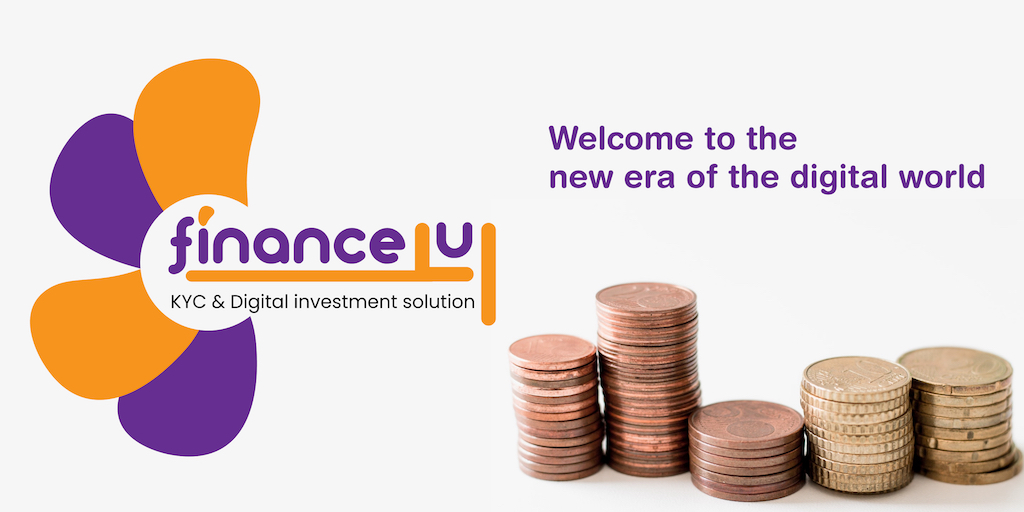
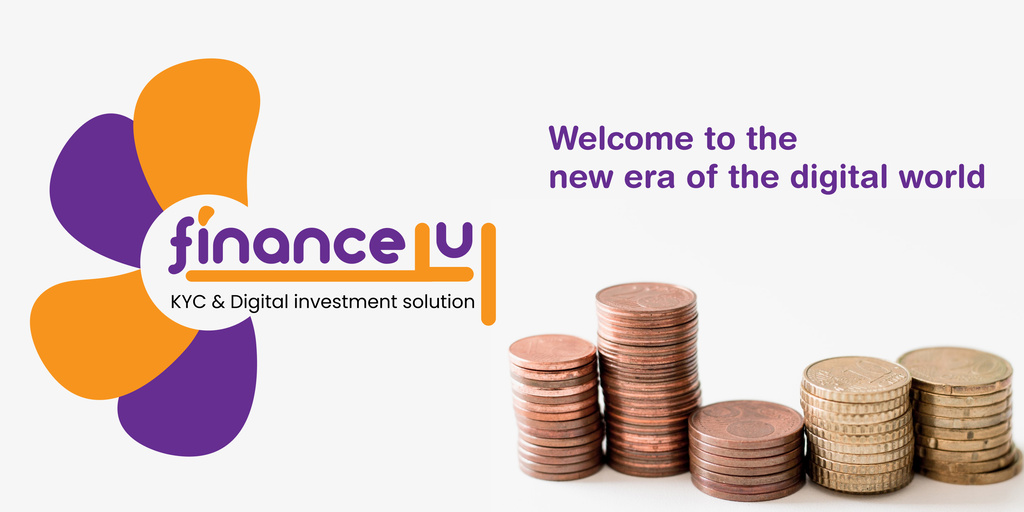
Added responsive images for parallax

diff --git a/css/responsive.css b/css/responsive.css
@@ -617,7 +617,31 @@
         margin-left: 5px;
     }
     #par .parallax-f4u {
-        background: url(../images/casestudy/financeu/f4u-cover-600x300.jpg)!important;
+        background: url(../images/casestudy/financeu/f4u-cover-640x320.jpg)!important;
+        background-repeat: no-repeat!important;
+        background-attachment: scroll!important;
+        background-size: 100%!important;
+        width: 100%!important;
+        background-position: center!important;
+    }
+    #par .parallax-hellomom {
+        background: url(../images/casestudy/hellomom/hellomom-cover-640x320.jpg)!important;
+        background-repeat: no-repeat!important;
+        background-attachment: scroll!important;
+        background-size: 100%!important;
+        width: 100%!important;
+        background-position: center!important;
+    }
+    #par .parallax-eatlocal {
+        background: url(../images/casestudy/eatlocal/eatlocal-cover-640x320.jpg)!important;
+        background-repeat: no-repeat!important;
+        background-attachment: scroll!important;
+        background-size: 100%!important;
+        width: 100%!important;
+        background-position: center!important;
+    }
+    #par .parallax-utap {
+        background: url(../images/casestudy/utap/utap-cover-640x320.jpg)!important;
         background-repeat: no-repeat!important;
         background-attachment: scroll!important;
         background-size: 100%!important;
@@ -715,6 +739,30 @@
     }
     #par .parallax-f4u {
         background: url(../images/casestudy/financeu/f4u-cover-800x400.jpg)!important;
+        background-repeat: no-repeat!important;
+        background-attachment: fixed!important;
+        background-size: 100%!important;
+        width: 100%!important;
+        background-position: center!important;
+    }
+    #par .parallax-hellomom {
+        background: url(../images/casestudy/hellomom/hellomom-cover-800x400.jpg)!important;
+        background-repeat: no-repeat!important;
+        background-attachment: fixed!important;
+        background-size: 100%!important;
+        width: 100%!important;
+        background-position: center!important;
+    }
+    #par .parallax-eatlocal {
+        background: url(../images/casestudy/eatlocal/eatlocal-cover-800x400.jpg)!important;
+        background-repeat: no-repeat!important;
+        background-attachment: fixed!important;
+        background-size: 100%!important;
+        width: 100%!important;
+        background-position: center!important;
+    }
+    #par .parallax-utap {
+        background: url(../images/casestudy/utap/utap-cover-800x400.jpg)!important;
         background-repeat: no-repeat!important;
         background-attachment: fixed!important;
         background-size: 100%!important;
@@ -1038,11 +1086,59 @@
         width: 100%!important;
         background-position: center!important;
     }
+    #par .parallax-hellomom {
+        background: url(../images/casestudy/hellomom/hellomom-cover-1024x512.jpg)!important;
+        background-repeat: no-repeat!important;
+        background-attachment: fixed!important;
+        background-size: 100%!important;
+        width: 100%!important;
+        background-position: center!important;
+    }
+    #par .parallax-eatlocal {
+        background: url(../images/casestudy/eatlocal/eatlocal-cover-1024x512.jpg)!important;
+        background-repeat: no-repeat!important;
+        background-attachment: fixed!important;
+        background-size: 100%!important;
+        width: 100%!important;
+        background-position: center!important;
+    }
+    #par .parallax-utap {
+        background: url(../images/casestudy/utap/utap-cover-1024x512.jpg)!important;
+        background-repeat: no-repeat!important;
+        background-attachment: fixed!important;
+        background-size: 100%!important;
+        width: 100%!important;
+        background-position: center!important;
+    }
 }
 
 @media only screen and (min-device-width: 768px) and (max-device-width: 1023px) {
     #par .parallax-f4u {
         background: url(../images/casestudy/financeu/f4u-cover-1024x512.jpg)!important;
+        background-repeat: no-repeat!important;
+        background-attachment: fixed!important;
+        background-size: 100%!important;
+        width: 100%!important;
+        background-position: center!important;
+    }
+    #par .parallax-hellomom {
+        background: url(../images/casestudy/hellomom/hellomom-cover-1024x512.jpg)!important;
+        background-repeat: no-repeat!important;
+        background-attachment: fixed!important;
+        background-size: 100%!important;
+        width: 100%!important;
+        background-position: center!important;
+    }
+    #par .parallax-eatlocal {
+        background: url(../images/casestudy/eatlocal/eatlocal-cover-1024x512.jpg)!important;
+        background-repeat: no-repeat!important;
+        background-attachment: fixed!important;
+        background-size: 100%!important;
+        width: 100%!important;
+        background-position: center!important;
+    }
+    #par .parallax-utap {
+        background: url(../images/casestudy/utap/utap-cover-1024x512.jpg)!important;
         background-repeat: no-repeat!important;
         background-attachment: fixed!important;
         background-size: 100%!important;
@@ -1100,6 +1196,30 @@
         width: 100%!important;
         background-position: center!important;
     }
+    #par .parallax-hellomom {
+        background: url(../images/casestudy/hellomom/hellomom-cover-1024x512.jpg)!important;
+        background-repeat: no-repeat!important;
+        background-attachment: fixed!important;
+        background-size: 100%!important;
+        width: 100%!important;
+        background-position: center!important;
+    }
+    #par .parallax-eatlocal {
+        background: url(../images/casestudy/eatlocal/eatlocal-cover-1024x512.jpg)!important;
+        background-repeat: no-repeat!important;
+        background-attachment: fixed!important;
+        background-size: 100%!important;
+        width: 100%!important;
+        background-position: center!important;
+    }
+    #par .parallax-utap {
+        background: url(../images/casestudy/utap/utap-cover-1024x512.jpg)!important;
+        background-repeat: no-repeat!important;
+        background-attachment: fixed!important;
+        background-size: 100%!important;
+        width: 100%!important;
+        background-position: center!important;
+    }
 }
 
 @media screen and (min-width: 1400px) {
@@ -1129,7 +1249,31 @@
         position: relative;
     }
     #par .parallax-f4u {
-        background: url(../images/casestudy/financeu/f4u-cover-1400x700.jpg)!important;
+        background: url(../images/casestudy/financeu/f4u-cover-1440x720.jpg)!important;
+        background-repeat: no-repeat!important;
+        background-attachment: fixed!important;
+        background-size: 100%!important;
+        width: 100%!important;
+        background-position: center!important;
+    }
+    #par .parallax-hellomom {
+        background: url(../images/casestudy/hellomom/hellomom-cover-1440x720.jpg)!important;
+        background-repeat: no-repeat!important;
+        background-attachment: fixed!important;
+        background-size: 100%!important;
+        width: 100%!important;
+        background-position: center!important;
+    }
+    #par .parallax-eatlocal {
+        background: url(../images/casestudy/eatlocal/eatlocal-cover-1440x720.jpg)!important;
+        background-repeat: no-repeat!important;
+        background-attachment: fixed!important;
+        background-size: 100%!important;
+        width: 100%!important;
+        background-position: center!important;
+    }
+    #par .parallax-utap {
+        background: url(../images/casestudy/utap/utap-cover-1440x720.jpg)!important;
         background-repeat: no-repeat!important;
         background-attachment: fixed!important;
         background-size: 100%!important;
@@ -1575,7 +1719,31 @@
         height: 100px;
     }
     #par .parallax-f4u {
-        background: url(../images/casestudy/financeu/f4u-cover-2000x1000.jpg)!important;
+        background: url(../images/casestudy/financeu/f4u-cover-2560x1280.jpg)!important;
+        background-repeat: no-repeat!important;
+        background-attachment: fixed!important;
+        background-size: 100%!important;
+        width: 100%!important;
+        background-position: center!important;
+    }
+    #par .parallax-hellomom {
+        background: url(../images/casestudy/hellomom/hellomom-cover-2560x1280.jpg)!important;
+        background-repeat: no-repeat!important;
+        background-attachment: fixed!important;
+        background-size: 100%!important;
+        width: 100%!important;
+        background-position: center!important;
+    }
+    #par .parallax-eatlocal {
+        background: url(../images/casestudy/eatlocal/eatlocal-cover-2560x1280.jpg)!important;
+        background-repeat: no-repeat!important;
+        background-attachment: fixed!important;
+        background-size: 100%!important;
+        width: 100%!important;
+        background-position: center!important;
+    }
+    #par .parallax-utap {
+        background: url(../images/casestudy/utap/utap-cover-2560x1280.jpg)!important;
         background-repeat: no-repeat!important;
         background-attachment: fixed!important;
         background-size: 100%!important;
